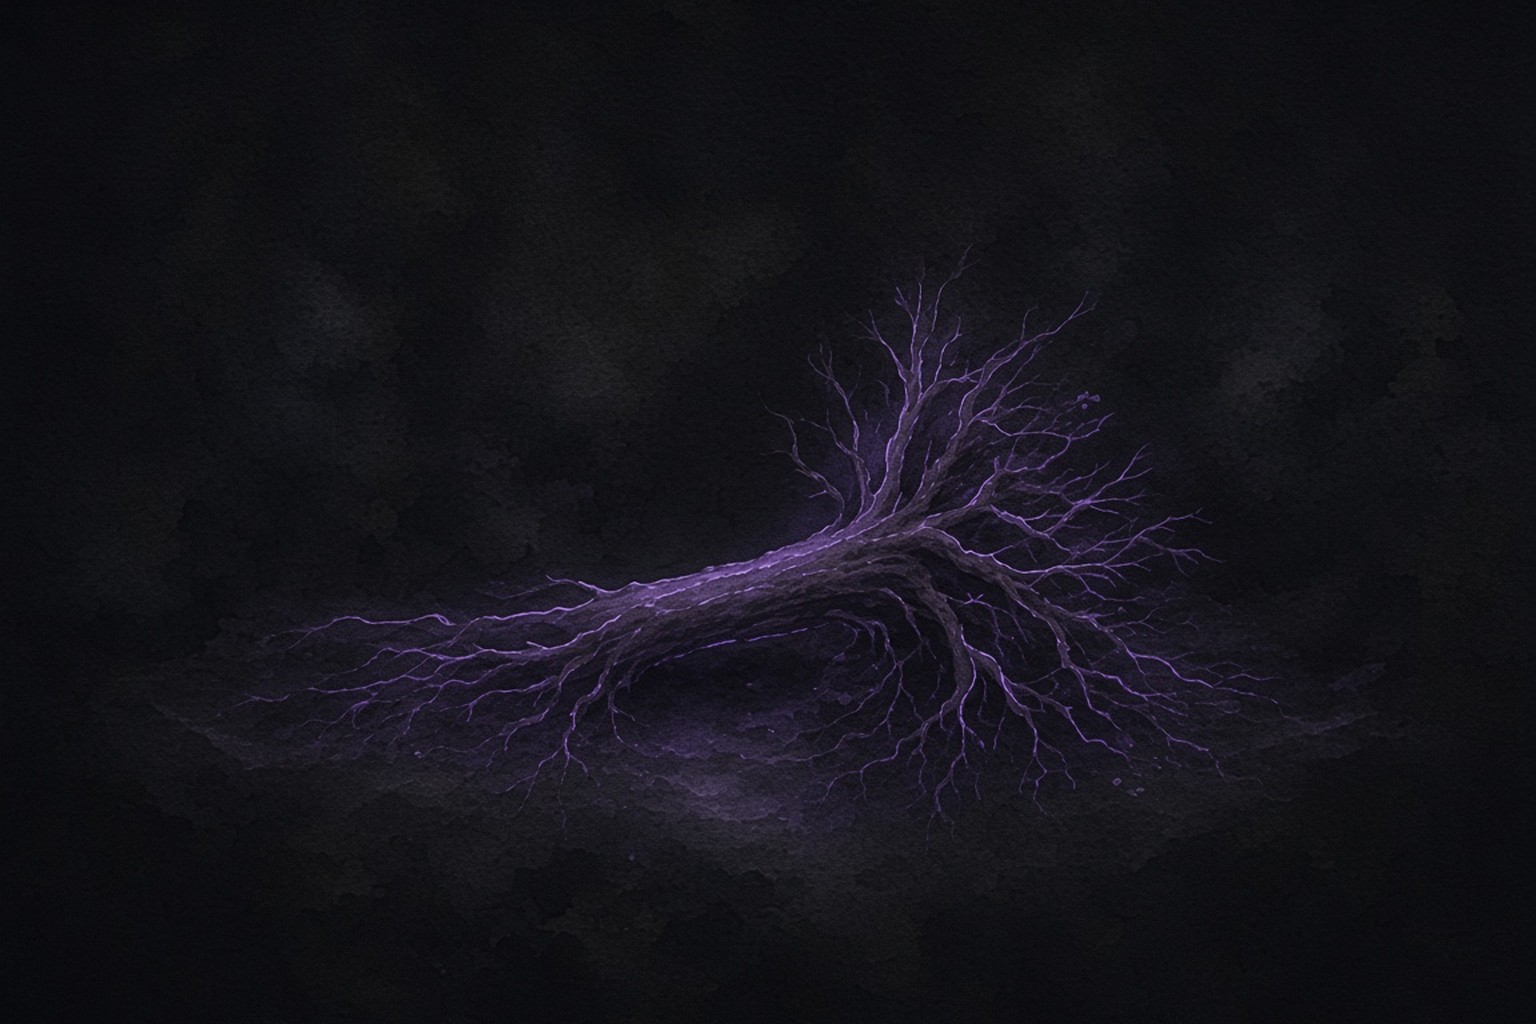
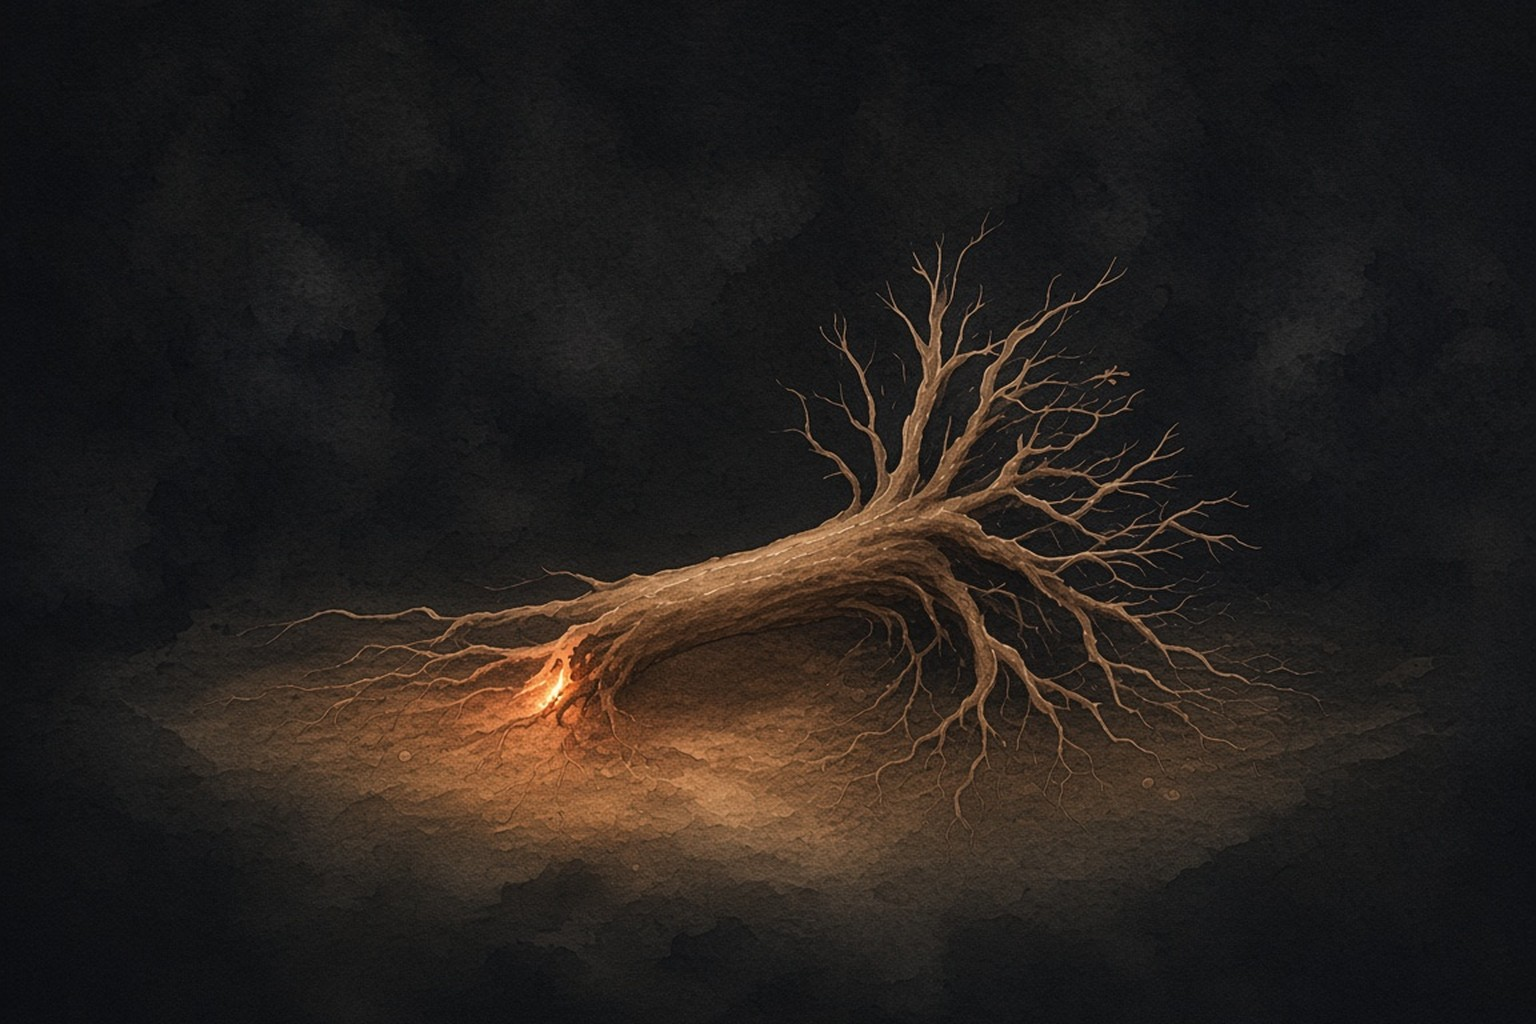
content(doi-thay): add Fire to the Earth cover
Revise the fallen-tree cover so Thổ (ochre earth, clay trunk) and Hỏa (ember at the roots) are both readable.

Changed region(s): [[0.0938, 0.25, 0.9375, 0.9375], [0.625, 0.2188, 0.6562, 0.25], [0.3438, 0.9062, 0.375, 0.9375]]

diff --git a/_logs/26-10-07-doi-thay-cover-en.md b/_logs/26-10-07-doi-thay-cover-en.md
@@ -7,14 +7,15 @@ Completes [PR #25](https://github.com/tam-pham-alpha/xaolonist.eth/pull/25) (`co
 ## Status
 
 - [x] Vietnamese draft essay (from PR #25)
-- [x] Cover image (`cover.jpg`, 1536×1024, the-way violet)
+- [x] Cover image (`cover.jpg`, 1536×1024, Thổ + Hỏa)
 - [x] English translation (`index.en.md`)
 - [x] VN + EN frontmatter both point at `./cover.jpg`
 
 ## Notes
 
 - Category: `the-way`
-- Cover motif: dark watercolor canvas, one fallen ancient tree with roots lifted, a faint violet glow at the exposed roots. The change had already begun underground.
-- Palette: soft muted violet / luminous purple on `#0b0b0f`, matching `hat-giong-moi`
+- Cover motif: dark watercolor canvas, one fallen ancient tree in clay/ochre earth tones (Thổ), with a small ember flame at the exposed roots (Hỏa). Wood becoming fuel, returning to earth.
+- Palette: muted ochre / umber / clay for Earth, soft ember orange / amber for Fire, on `#0b0b0f`
+- First cover was violet-only and read as Earth alone; revised after feedback to make Fire visible
 - Generated at 4:3, then center-cropped and scaled to landscape 3:2 (1536×1024)
 - Central idea stays the same as the VN essay: what looks sudden on an ordinary morning may have been loosening under the ground for a long time
